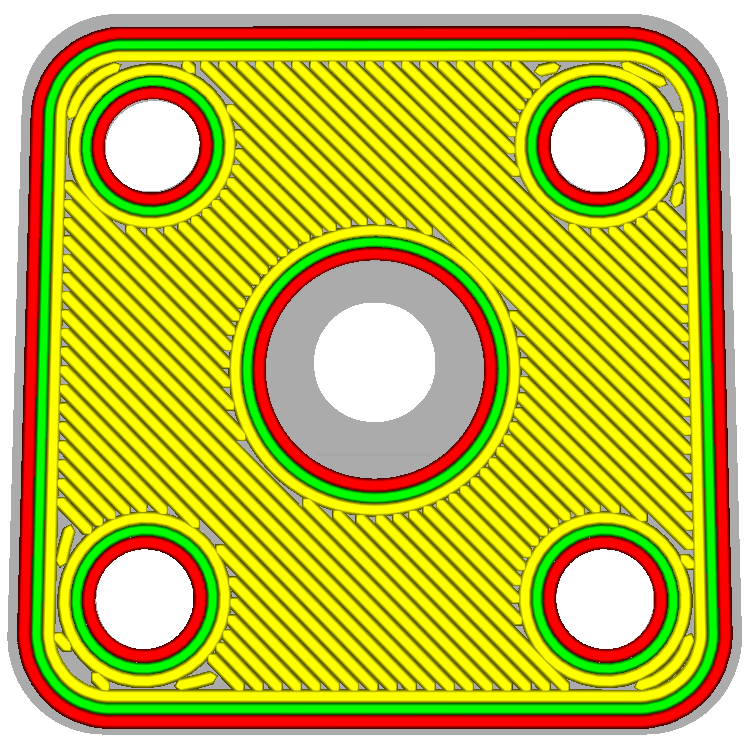
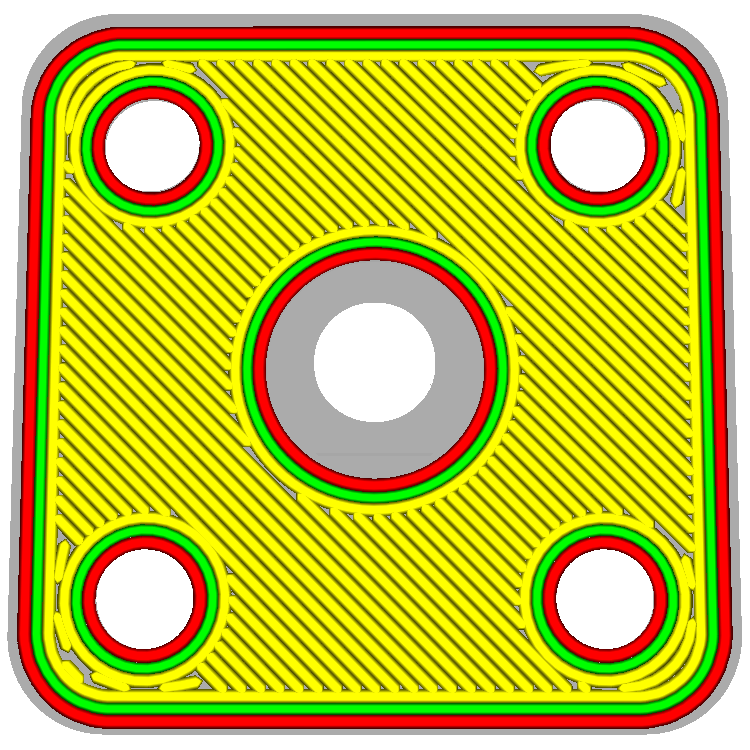
Convert skin_overlap to Markdown and make corrections
I don't want to show a negative overlap. It's just confusing.

diff --git a/resources/descriptions/skin_overlap.md b/resources/descriptions/skin_overlap.md
@@ -1,0 +1,8 @@
+This setting makes the skin overlap a bit with the adjacent structures. This makes the skin adhere better to those structures.
+
+![No overlap](skin_overlap_none.png)
+![Some overlap](skin_overlap_20.png)
+
+This overlap technically produces overextrusion, but the amount of overextrusion is small enough that it won't be visible. It will have a significant influence on the strength though, because the skin can adhere better to the walls and infill. After all, these structures only add to the strength of the model if they have something to hold on to.
+
+Having a bit of overlap can also help to reduce the occurrence of gaps in the skin.
